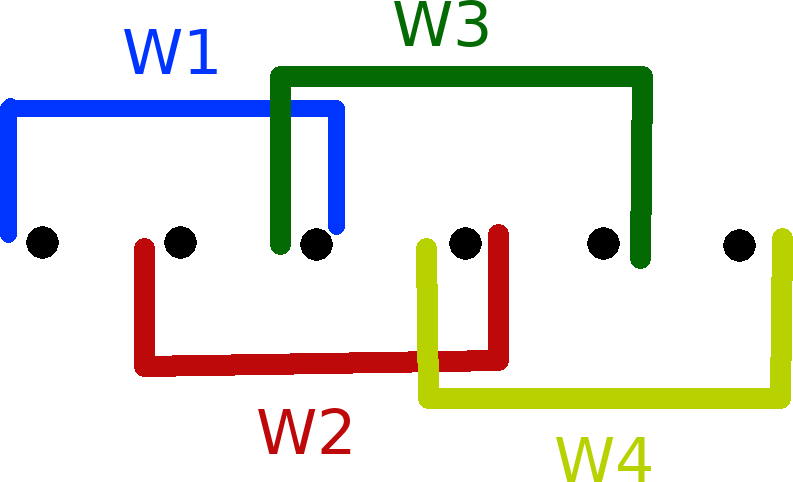
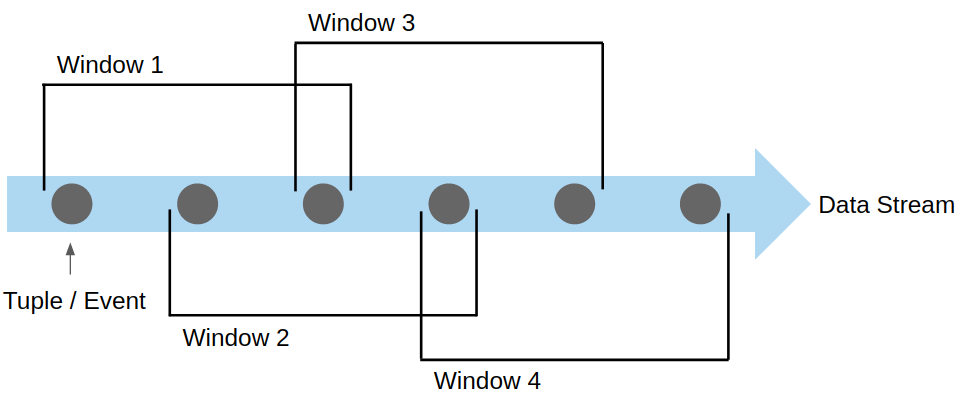
Old Sota backup, new sliding window image style

Changed region(s): [[0.0, 0.0, 1.0, 1.0]]

diff --git a/chapters/background.tex b/chapters/background.tex
@@ -47,11 +47,12 @@ A true sliding window is defined by any given window size \textit{W} and a unita
 
 \begin{figure}[!htb]
     \begin{center}
-      \includegraphics[scale=0.3]{figures/sliding.png}
+      \hspace*{0.6in}
+      \includegraphics[scale=0.4]{figures/sliding.png}
       \caption[True sliding window]{True sliding window, W=3, S=1}
-      \label{fig:sliding-window}
+      \label{fig:sliding-window} 
     \end{center}
-\end{figure}
+\end{figure} 
 
 % stepping windows (per x units over Y window size)
 % stepping: step > 1 < window size
@@ -93,7 +94,8 @@ For the scope of this Thesis, we will work under a tuple-based sliding window fr
 An aggregation --- also known as a fold, reduce or accumulate --- is an operation that reduces a collection of values to a single one. Examples of such are the computation of data set sums, minima, averages or the number of distinct elements (cardinality). An aggregation may be exact or approximate. Exact aggregations compute a value from a sequence of elements, where no error or loss of resolution exists. On the other hand, approximate aggregations have an error margin to the associated aggregation value which is usually controllable by adjusting a set of parameters. 
 Approximate aggregations are required when memory is limited, the volume of data to process is large and/or computing the exact aggregation can not be done in useful time. Thus, approximate aggregators trade precision of results for efficient time and space usage. In Section \ref{sec:pds} we explore approximate aggregators that make such a trade-off.
 
-Aggregations are present in most programming languages and frameworks. Quoting from the Java programming language documentation on the \textit{Stream.reduce()} method\footnote{https://docs.oracle.com/en/java/javase/13/docs/api/java.base/java/util/stream/package-summary.html\#Reduction}: \textit{"A reduction operation (also called a fold) takes a sequence of input elements and combines them into a single summary result by repeated application of a combining operation"}. Similarly, Hadoop's MapReduce paradigm consists of first applying \textit{map} steps to the collection of data and then a \textit{reduce} one. \textit{Map} tasks will transform each item as desired and the \textit{reduce} task will merge the collection into a single value. Reduce methods make use of a \textit{combine} function and recursively apply it. The \textit{combine} function takes the current aggregation value and combines it with the next item in the set, returning the new aggregated state. Doing this recursively for each item in the collection results in a single value: the aggregate value.
+Aggregations are present in most programming languages and frameworks. Quoting from the Java programming language documentation on the \textit{Stream.reduce()} method\footnote{https://docs.oracle.com/en/java/javase/13/docs/api/java.base/java/util/stream/package-summary.html\#Reduction}: 
+\textit{"A reduction operation (also called a fold) takes a sequence of input elements and combines them into a single summary result by repeated application of a combining operation"}. Similarly, Hadoop's MapReduce paradigm consists of first applying \textit{map} steps to the collection of data and then a \textit{reduce} one. \textit{Map} tasks will transform each item as desired and the \textit{reduce} task will merge the collection into a single value. Reduce methods make use of a \textit{combine} function and recursively apply it. The \textit{combine} function takes the current aggregation value and combines it with the next item in the set, returning the new aggregated state. Doing this recursively for each item in the collection results in a single value: the aggregate value.
 
 \subsection{Sliding Window Aggregations}
 
@@ -115,8 +117,7 @@ A sliding window aggregation algorithm allows the computation of an exact or app
 Two of the most basic SWAG algorithms are \textit{Recalculate-From-Scratch (RFS)} and \textit{Subtract-On-Evict (SOE)}.
 
 Recalculate-From-Scratch (RFS) is the simplest and most general SWAG algorithm. As the name suggests, this algorithm recomputes the aggregation over the entire window for each update. For instance, the computation of a sum over a sliding window using RFS means that whenever the window changes all elements are summed. This approach works for every aggregation. However, given \textit{n} as the window size, this algorithm takes \textit{O(n)} space and time complexity which makes it unfit in most scenarios of large scale data processing. Figure \ref{fig:pseudo-rfs} shows pseudocode for RFS \cite{Tangwongsan-Sliding-Window-Aggregation-Algorithms}.
-
-
+  
 
 \begin{figure}[!htb]
     \begin{center}

diff --git a/chapters/old-sota.tex b/chapters/old-sota.tex
@@ -6,7 +6,7 @@ In this Chapter, we discuss the most relevant work for the aforementioned proble
 A data stream has a temporal dimension and the underlying process that generates the data stream can change over time \cite{Aggarwal-Evolving-Data-Streams} \cite{Domingos-Mining-Time-Data-Streams}. It is this change in the underlying distribution that we want to detect and report as a data pattern shift.
 
 \subsection{A two window paradigm algorithm for change detection}
-\label{subsec:2-window} 
+\label{subsec:2-window}
 
 Kifer et al. propose an algorithm for change detection in data streams \cite{Kifer-Detecting-Change}. The authors propose that detecting change in data streams can be reduced to testing if two windows have different underlying distributions. Thus the change detection algorithm works on a two-window paradigm.
 

diff --git a/thesis.tex b/thesis.tex
@@ -1,7 +1,7 @@
 \documentclass[11pt,a4paper,twoside,openright]{report}
-\usepackage[utf8]{inputenc}
-
-%\usepackage[latin1]{inputenc}
+\usepackage[utf8]{inputenc}  
+ 
+%\usepackage[latin1]{inputenc} 
 
 %%%%%%% English version 
 
@@ -9,6 +9,7 @@
 %\usepackage[mieic]{feupteses}                  % work version
 %\usepackage[mieic,juri]{feupteses}             % juri verrion
 \usepackage[mieic,final]{feupteses}            % final version
+
 
 %% Additional options for feupteses.sty: 
 %% - portugues: titles, etc in portuguese

diff --git a/chapters/quote.tex b/chapters/quote.tex
@@ -4,9 +4,9 @@
 \vspace*{8cm}
 
 \begin{flushright}
-  \textsl{``Information is the oil of the 21st century,\\and analytics is the combustion engine.''}\\
+  \textsl{``Cenas\\mais cenas.''}\\
 \vspace*{1.5cm}
-    Peter Sondergaard, senior vice president, Gartner Research
+    Cenas, cenas, Cenas Research
 \end{flushright}
 
 

diff --git a/chapters/acknows.tex b/chapters/acknows.tex
@@ -2,4 +2,3 @@
 
 
 \vspace{10mm}
-\flushleft{João Dias Conde Azevedo}
